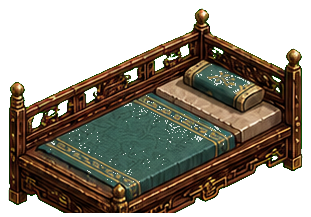
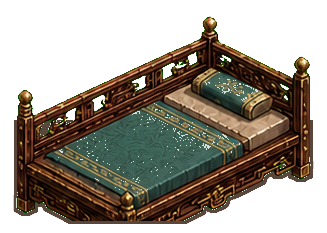
Scale home room and fix furniture silhouettes

diff --git a/src/game.js b/src/game.js
@@ -9,7 +9,8 @@
   "use strict";
   var CORE = window.WULIN_CORE; // 战斗核心单一源(数值/功法/build→实战)
   var HW = 12, HH = 6;          // 小格菱形半宽/半高 (2:1)
-  var GW = 66, GH = 48;         // 地板小格
+  var GW = 96, GH = 70;         // 地板小格：参考大宅截图扩大室内面积
+  var FURN_SCALE = 0.78;        // 人物显示高不变，家具视觉缩小到更接近参考图比例
   var WALL_ROWS = 16, ROW_PX = 11; // 墙高 16 小格档，每档像素
   var WALL_PX = WALL_ROWS * ROW_PX;
   var MARGIN = 40, HEAD = 120, YARD = 16; // 边距 / 家具顶部留白 / 院景边界格数
@@ -341,7 +342,7 @@
       // 真图正确对齐：水平=footprint菱形中心；底边=下顶点(最靠前/最低)的y；宽=菱形宽(w+h)*HW，高按比例
       var ctrX = v(p.cx + p.w / 2, p.cy + p.h / 2).x;  // 菱形水平中心(非下顶点x，避免长方形footprint偏移)
       var botY = v(p.cx + p.w, p.cy + p.h).y - lift;   // 下顶点y(抬到承载面)
-      var iw = (p.w + p.h) * HW, ih = img.height * (iw / img.width);
+      var iw = (p.w + p.h) * HW * FURN_SCALE, ih = img.height * (iw / img.width);
       if (fi.flip) { ctx.save(); ctx.translate(ctrX, 0); ctx.scale(-1, 1); ctx.drawImage(img, -iw / 2, botY - ih, iw, ih); ctx.restore(); }
       else ctx.drawImage(img, ctrX - iw / 2, botY - ih, iw, ih);
       if (DEBUG_FOOT) { poly(quad(p.cx, p.cy, p.w, p.h)); ctx.strokeStyle = "rgba(0,255,180,.9)"; ctx.lineWidth = 1; ctx.stroke(); }

diff --git a/tools/regenerate_home_assets_task39.py b/tools/regenerate_home_assets_task39.py
@@ -570,6 +570,67 @@ def overlay_ai_sheets():
         save_variants(im, ASSETS / cat / kind)
 
 
+def keep_largest_component(im: Image.Image) -> Image.Image:
+    im = im.convert("RGBA")
+    alpha = im.getchannel("A")
+    pix = alpha.load()
+    w, h = im.size
+    seen = set()
+    comps = []
+    for y in range(h):
+        for x in range(w):
+            if pix[x, y] == 0 or (x, y) in seen:
+                continue
+            stack = [(x, y)]
+            comp = []
+            seen.add((x, y))
+            while stack:
+                qx, qy = stack.pop()
+                comp.append((qx, qy))
+                for nx, ny in ((qx + 1, qy), (qx - 1, qy), (qx, qy + 1), (qx, qy - 1)):
+                    if 0 <= nx < w and 0 <= ny < h and pix[nx, ny] and (nx, ny) not in seen:
+                        seen.add((nx, ny))
+                        stack.append((nx, ny))
+            comps.append(comp)
+    if len(comps) <= 1:
+        return im
+    keep = set(max(comps, key=len))
+    out = im.copy()
+    opx = out.load()
+    for y in range(h):
+        for x in range(w):
+            if pix[x, y] and (x, y) not in keep:
+                r, g, b, _a = opx[x, y]
+                opx[x, y] = (r, g, b, 0)
+    return trim_alpha(out, 8)
+
+
+def reinforce_bed_base(im: Image.Image) -> Image.Image:
+    im = im.convert("RGBA")
+    alpha = im.getchannel("A")
+    expanded = alpha.filter(ImageFilter.MaxFilter(7))
+    under = Image.new("RGBA", im.size, (0, 0, 0, 0))
+    upx = under.load()
+    apx = alpha.load()
+    epx = expanded.load()
+    cutoff = int(im.height * 0.52)
+    for y in range(cutoff, im.height):
+        for x in range(im.width):
+            if epx[x, y] and not apx[x, y]:
+                # A restrained lower-structure underlay: it fills visual holes
+                # near legs/rails without changing the top bedding silhouette.
+                upx[x, y] = (54, 31, 18, min(210, epx[x, y]))
+    under.alpha_composite(im)
+    return trim_alpha(under, 8)
+
+
+def postprocess_asset_shapes():
+    for p in (ASSETS / "table").glob("table_tea*.png"):
+        keep_largest_component(Image.open(p)).save(p)
+    for p in (ASSETS / "bed").glob("bed_advanced*.png"):
+        reinforce_bed_base(Image.open(p)).save(p)
+
+
 def scale_canvas(im: Image.Image, factor: float) -> Image.Image:
     nw = max(1, int(im.width * factor))
     nh = max(1, int(im.height * factor))
@@ -604,4 +665,5 @@ def make_preview():
 if __name__ == "__main__":
     save_all()
     overlay_ai_sheets()
+    postprocess_asset_shapes()
     make_preview()
